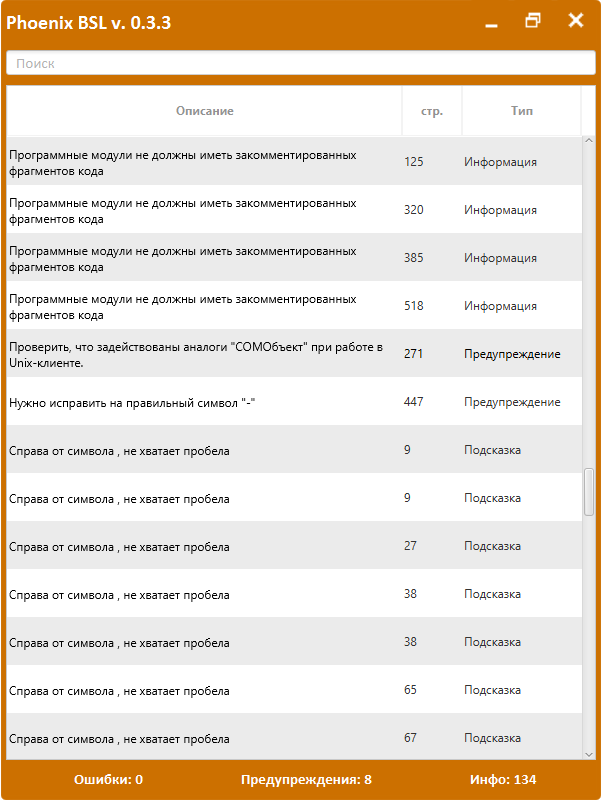
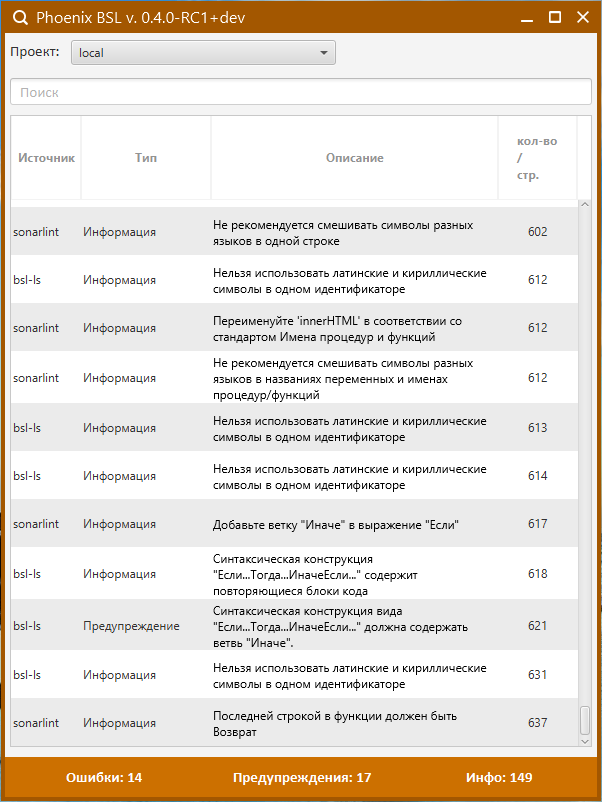
#113 / Краткое описание новых возможностей с sonarlint

diff --git a/README.md b/README.md
@@ -3,13 +3,11 @@
 [![Quality Gate Status](https://sonarcloud.io/api/project_badges/measure?project=phoenixbsl&metric=alert_status)](https://sonarcloud.io/dashboard?id=phoenixbsl)
 # Phoenix BSL для 1С
 
-**В СТАДИИ РАЗРАБОТКИ, ИСПОЛЬЗУЙТЕ НА СВОЙ СТРАХ И РИСК =)**
-
 ## Описание
 
 Проект позволяет анализировать и форматировать код 1С в конфигураторе. Инструмент основан на проекте [BSL LS](https://github.com/1c-syntax/bsl-language-server).
 
-![Превью PhoenixBSL](docs/assets/images/preview.png)
+<img src="docs/assets/images/preview.png" alt="Превью PhoenixBSL" style="zoom:80%;" />
 
 ## Установка
 
@@ -60,6 +58,47 @@ java -jar phoenix-0.3.3.jar
 * `Свои настройки BSL LS` - признак использования своих настроек для BSL LS.
 * `Путь к настройкам BSL LS` - путь к настройкам BSL LS. По умолчанию `.bsl-language-server.json`. Для работы полного пакета проверок требуется указать в конфигурационном файле путь к выгруженным метаданным.  
 * `Группировать замечания` - при включенном флаге замечания группируются по их типу.
+
+#### Поддержка SonarLint
+
+Плагины поддержки 1С в SonarQube:
+* [1C (BSL) Community Plugin](https://github.com/1c-syntax/sonar-bsl-plugin-community) (пока не поддерживается)
+* [1C (BSL) Plugin от SilverBulleters ](https://silverbulleters.org/sonarqube) с версии 1.33
+
+Есть возможность, используя SonarLint, проанализировать код 1С с помощью плагина 1С на сервере SonarQube. Для этого нужно добавить в конфигурационный файл приложения (`%USER_NAME%\phoenixbsl\Configuration.json`) настройку проекта в `projects`:
+
+```json
+{
+    // ...
+    "projects": [
+        {
+            "name": "local",
+            "basePath": "C://Users//otymko//phoenixbsl//projects//context-collector//",
+            "useSonarLint": true,
+            "projectKey": "my-project1",
+            "serverUrl": "http://localhost:9000",
+            "serverId": "0000001",
+            "token": "58b7eaaa76be14d94e470ab28376f30f6cc95f55"
+        }
+    ]
+}
+```
+
+где свойства:
+
+* `name` - имя проекта внутри приложения
+* `basePath` - путь к рабочему каталогу проекта, в дальнейшем каталог должен содержать исходники конфигурации в формате **xml**. Есть каталог не существует, то приложение его создаст.
+* `useSonarLint` - опция для включения SonarLint. Работает при правильно заполненных свойствах: `projectKey`, `serverUrl`, `token`. Свойство `serverId` пока не используется.
+* `projectKey` - ключ проекта в SonarQube
+* `serverUrl` - адрес сервера SonarQube, например: [https://open.checkbsl.org/](https://open.checkbsl.org/)
+* `serverId` - идентификатор сервера SonarQube, пока не используется.
+* `token` - токен безопасности, для подключения к SonarQube. Генерируется из профиля пользователя.
+
+После заполнения проекта выше, в приложении будет доступен выбор проекта (в главном окне). Для удобства замечания разделены на:
+
+* bsl-ls - замечания, полученные с помощью [BSL LS](https://github.com/1c-syntax/bsl-language-server)
+* sonarlint - замечания, полученные с помощью плагинов 1С для SonarQube
+
 
 ## Быстрые исправления
 
